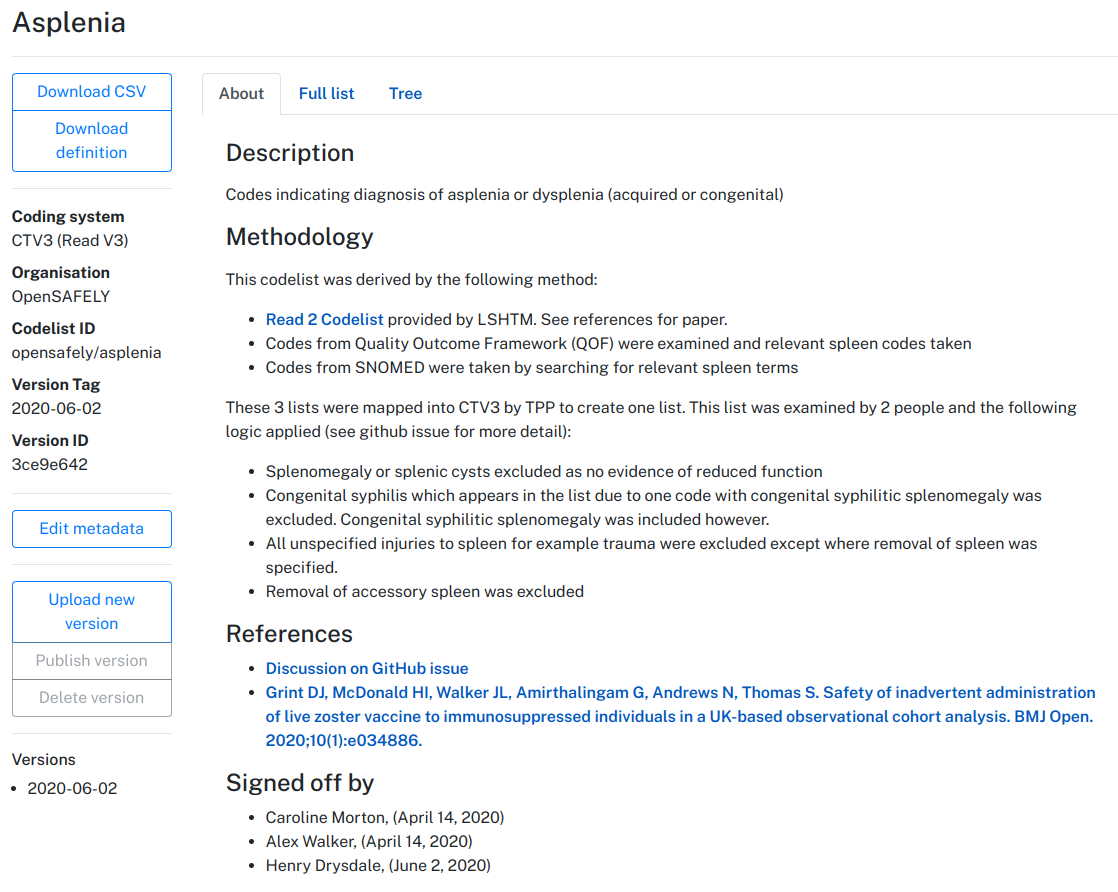
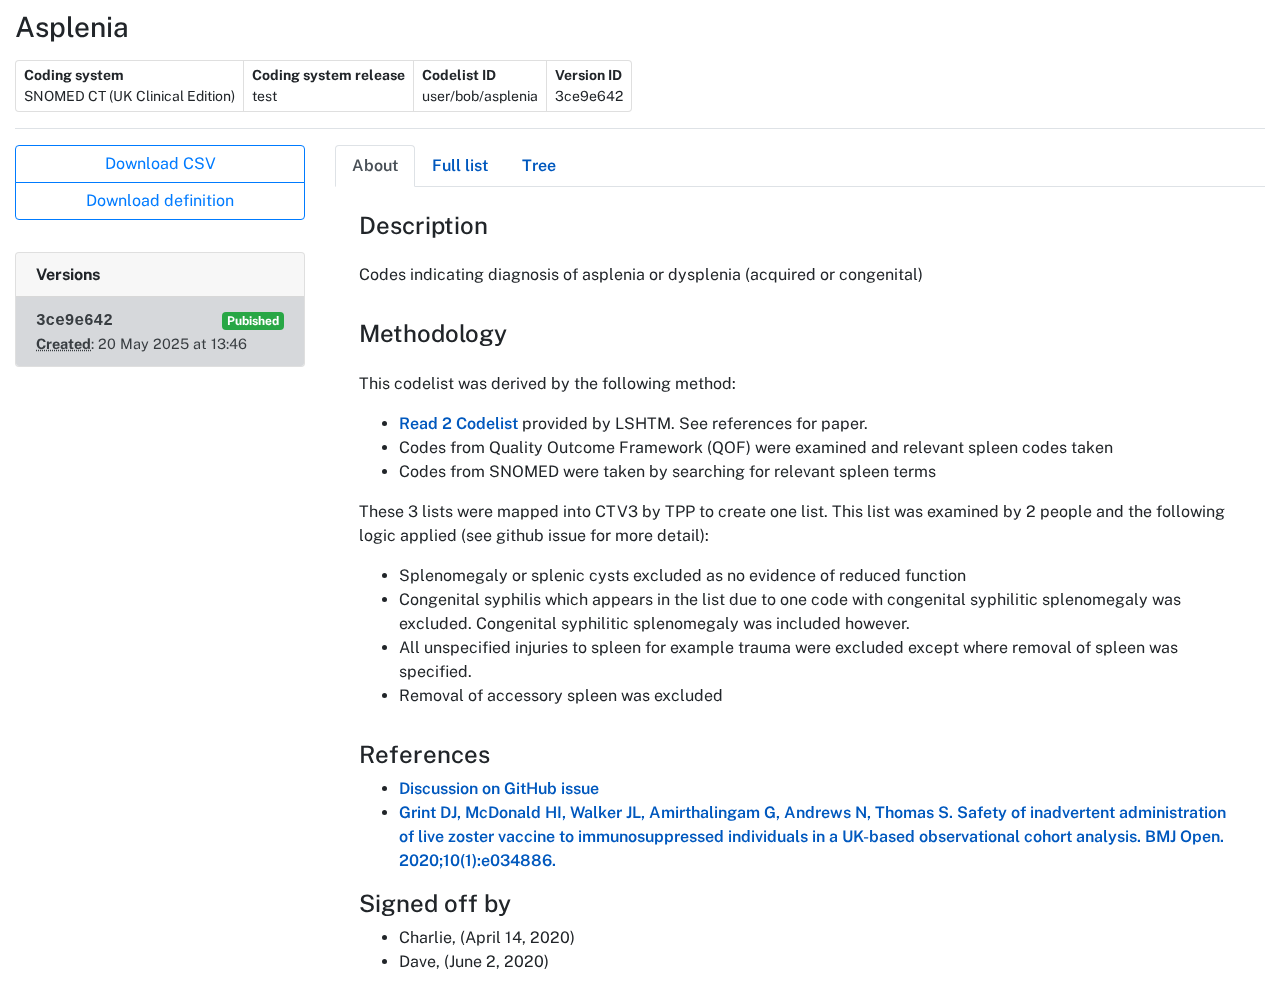
Added test to generate screenshots
Separate tests for
- unauthenticated user
- authenticated user without org
- authenticated user with org

Currently the `codelist-homepage` and the `full-list` use a fake, but real looking, codelist. Due to the existing test fixtures there are a couple of rough edges:
- the coding system release is "test"
- the "signed off by" users are "Charlie" and "Dave"
- the codes are limited to the elbow/arthritis codes created by the fixtures
I suspect this is fine, but we could investigate using an actual SNOMED database, and better test users.

diff --git a/opencodelists/tests/functional/test_docs_screenshots.py b/opencodelists/tests/functional/test_docs_screenshots.py
@@ -1,0 +1,142 @@
+import pytest
+
+from codelists import actions
+from codelists.coding_systems import most_recent_database_alias
+from codelists.models import Status
+
+from .test_build_codelist import setup_playwright_page
+from .utils import screenshot_element_with_padding
+
+
+pytestmark = pytest.mark.functional
+
+
+@pytest.mark.django_db(
+    databases=[
+        "default",
+        "bnf_test_20200101",
+        "dmd_test_20200101",
+        "snomedct_test_20200101",
+    ],
+    transaction=True,
+)
+def test_generate_unauthenticated_screen_shots(
+    page,
+    live_server,
+    collaborator,
+    user_without_organisation,
+    disorder_of_elbow_codes,
+    user,
+):
+    """
+    Any screenshots that require that a user is not logged in
+    """
+    page.goto(live_server.url)
+    # The sign up/sign in buttons
+    screenshot_element_with_padding(
+        page,
+        page.locator("#navbarSupportedContent ul"),
+        "sign-up.png",
+        extra={"height": -2},
+    )
+
+    # Create and publish an example codelist with good metadata
+    cl = actions.create_codelist_with_codes(
+        owner=user,
+        name="Asplenia",
+        coding_system_id="snomedct",
+        coding_system_database_alias=most_recent_database_alias("snomedct"),
+        codes=disorder_of_elbow_codes,
+        description="Codes indicating diagnosis of asplenia or dysplenia (acquired or congenital)",
+        methodology="""
+This codelist was derived by the following method:
+
+  - [Read 2 Codelist](http://localhost/) provided by LSHTM. See references for paper.
+  - Codes from Quality Outcome Framework (QOF) were examined and relevant spleen codes taken
+  - Codes from SNOMED were taken by searching for relevant spleen terms
+
+These 3 lists were mapped into CTV3 by TPP to create one list. This list was examined by 2 people and the following logic applied (see github issue for more detail):
+
+  - Splenomegaly or splenic cysts excluded as no evidence of reduced function
+  - Congenital syphilis which appears in the list due to one code with congenital syphilitic splenomegaly was excluded. Congenital syphilitic splenomegaly was included however.
+  - All unspecified injuries to spleen for example trauma were excluded except where removal of spleen was specified.
+  - Removal of accessory spleen was excluded
+""",
+        references=[
+            {"text": "Discussion on GitHub issue", "url": "http://example1.com"},
+            {
+                "text": "Grint DJ, McDonald HI, Walker JL, Amirthalingam G, Andrews N, Thomas S. Safety of inadvertent administration of live zoster vaccine to immunosuppressed individuals in a UK-based observational cohort analysis. BMJ Open. 2020;10(1):e034886.",
+                "url": "http://example2.com",
+            },
+        ],
+        signoffs=[
+            {"user": collaborator.username, "date": "2020-04-14"},
+            {"user": user_without_organisation.username, "date": "2020-06-02"},
+        ],
+        status=Status.UNDER_REVIEW,
+    )
+    actions.publish_version(version=cl.versions.get())
+
+    page.goto(live_server.url + cl.get_absolute_url())
+    # A codelist example
+    screenshot_element_with_padding(
+        page,
+        page.locator("[role='main']"),
+        "codelist-homepage.png",
+        full_page=True,
+        extra={"height": -200},
+    )
+
+    page.get_by_role("tab", name="Full list").click()
+    page.get_by_role("searchbox", name="Search:").type("elbow")
+    # The tab with the full list of codes in the codelist
+    screenshot_element_with_padding(
+        page,
+        page.locator("div.col-md-9").filter(
+            has=page.get_by_role("tabpanel", name="Full list")
+        ),
+        "full-list.png",
+        full_page=True,
+    )
+
+
+def test_generate_non_org_user_screen_shots(
+    live_server,
+    non_organisation_login_context,
+):
+    """
+    Any screenshots that require a logged in user who is not part of an organisation
+    """
+    page = setup_playwright_page(
+        login_context=non_organisation_login_context,
+        url=live_server.url,
+    )
+    page.goto(live_server.url)
+    # The top menu after login
+    screenshot_element_with_padding(
+        page,
+        page.locator("#navbarSupportedContent ul"),
+        "my-codelists.png",
+        extra={"height": -2},
+    )
+
+
+def test_generate_org_user_screen_shots(
+    live_server,
+    organisation_login_context,
+):
+    """
+    Any screenshots that require a logged in user who is part of an organisation
+    """
+    page = setup_playwright_page(
+        login_context=organisation_login_context,
+        url=live_server.url,
+    )
+    page.goto(live_server.url)
+    # The top menu after login
+    screenshot_element_with_padding(
+        page,
+        page.locator("#navbarSupportedContent ul"),
+        "my-organisations.png",
+        extra={"height": -2},
+    )
